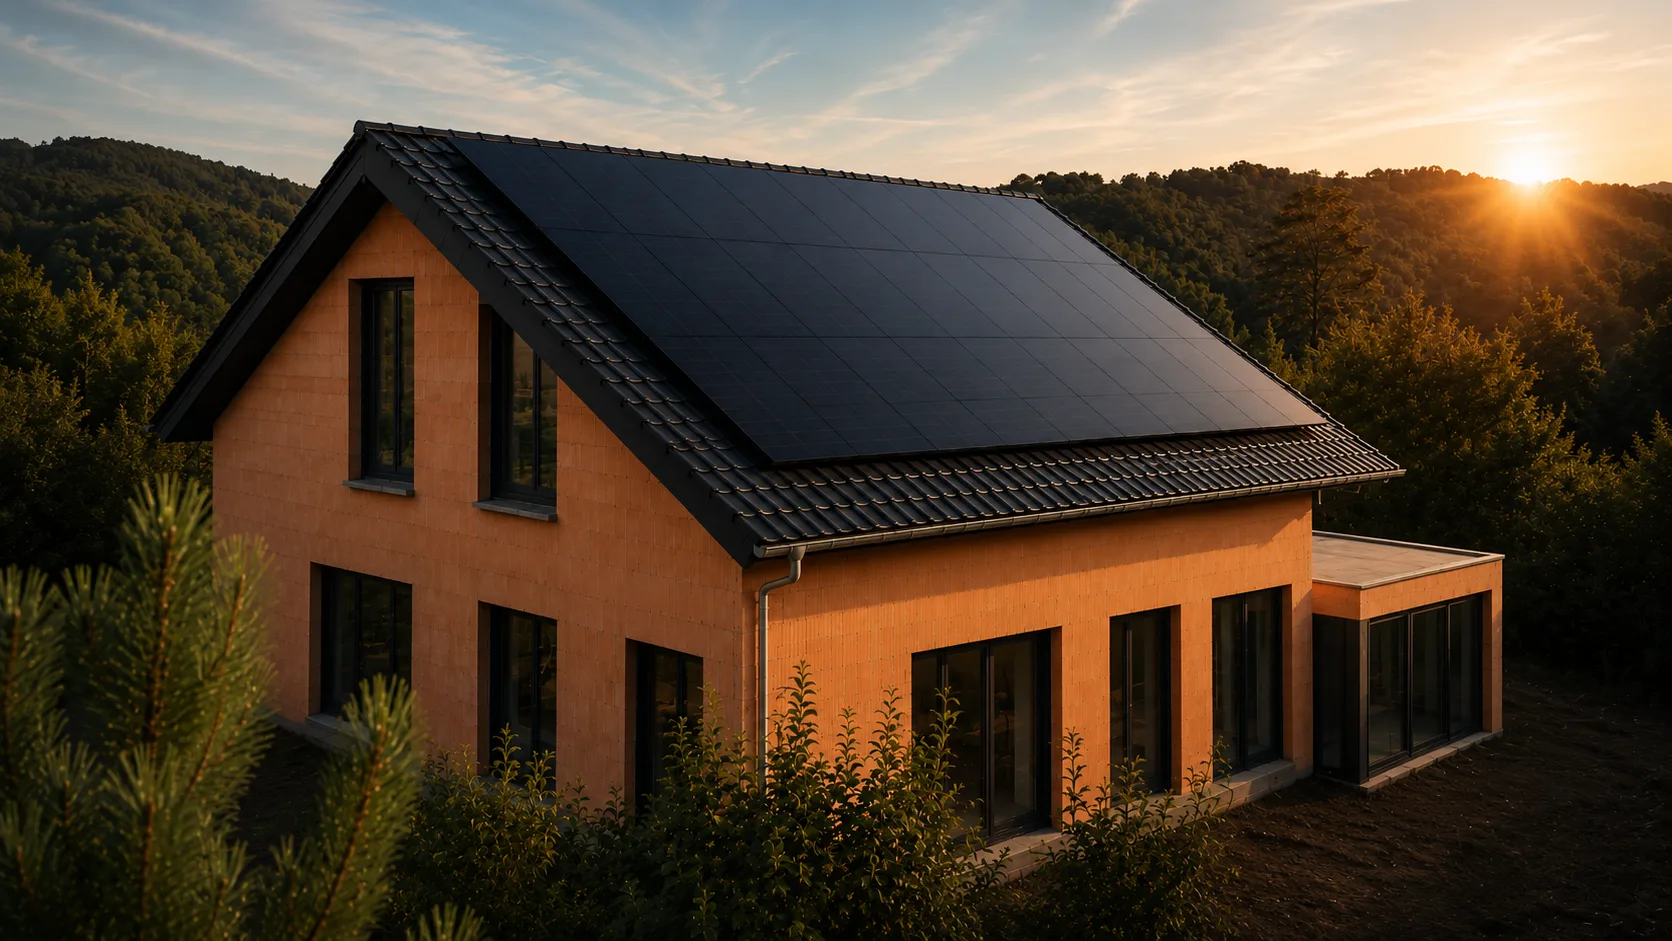
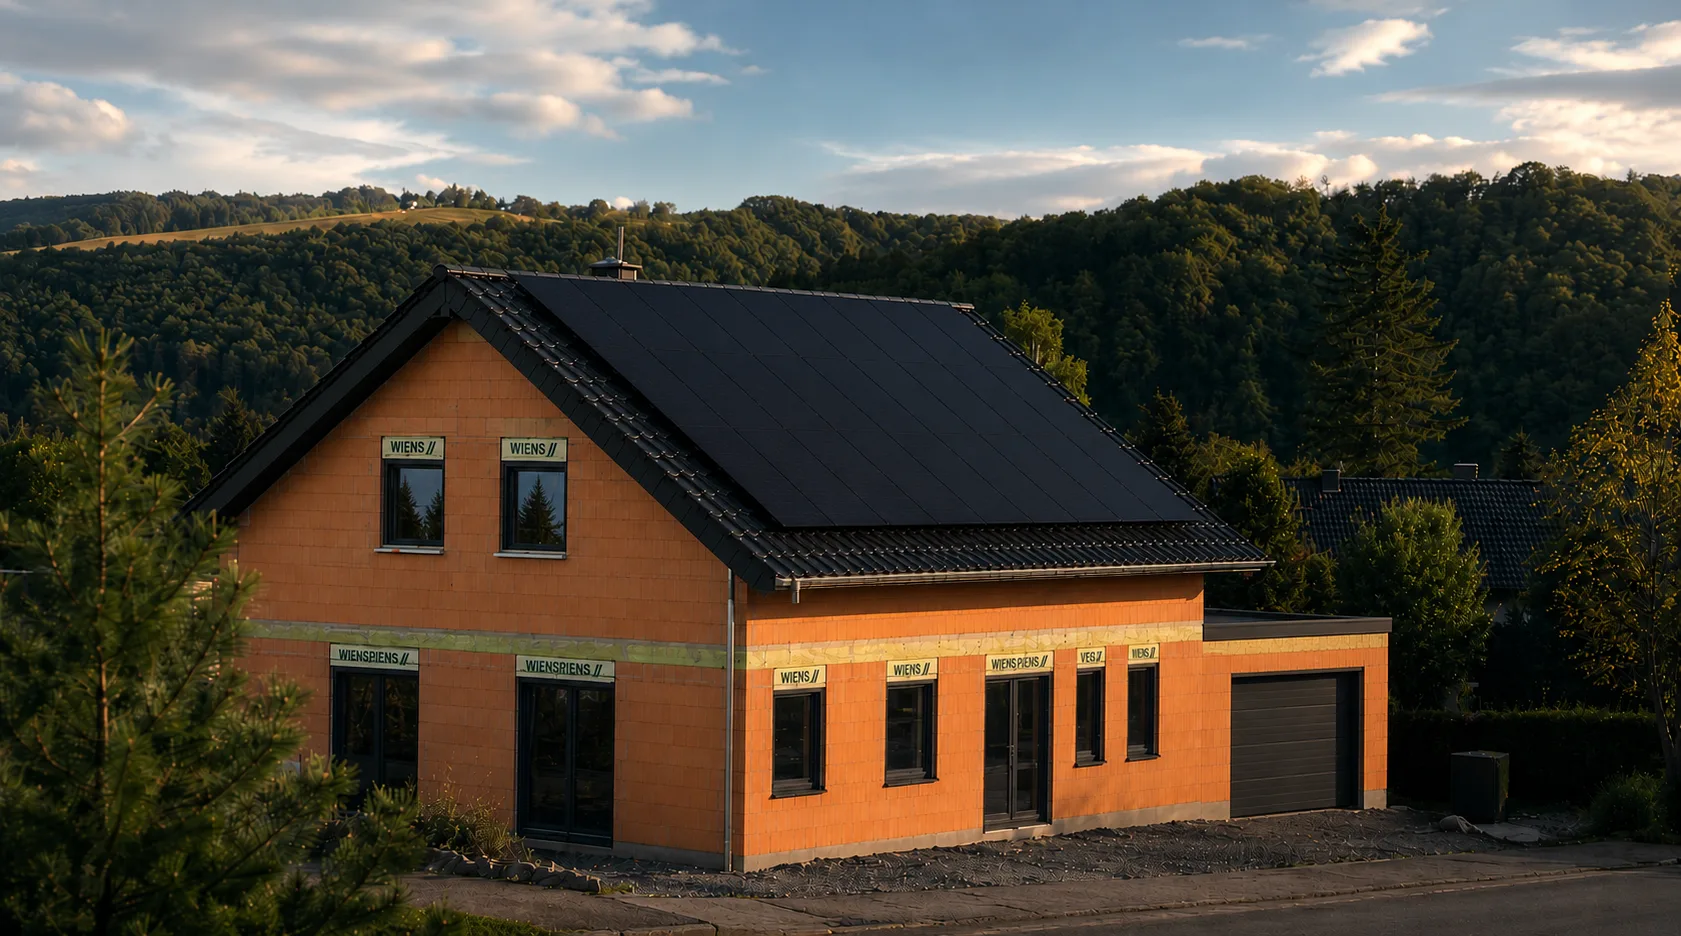
Hero-Diashow: nur noch zwei neue Hausaufnahmen per Crossfade
Ersetzt die dreiteilige Bau-Front-Animation (Rohbau/fertig/Nacht) durch
einen einfachen Opacity-Crossfade zwischen den beiden neuen Bildern
(original_bild, haus_1), da beide bereits das fertige Haus zeigen.

diff --git a/components/home-hero.tsx b/components/home-hero.tsx
@@ -1,27 +1,17 @@
 "use client";
 
 import Link from "next/link";
-import { useEffect } from "react";
-import {
-  animate,
-  motion,
-  useMotionTemplate,
-  useMotionValue,
-  useReducedMotion,
-  useTransform,
-} from "framer-motion";
+import { useEffect, useState } from "react";
+import { AnimatePresence, motion, useReducedMotion } from "framer-motion";
 import { ArrowUpRight, Phone } from "lucide-react";
 import { BlurText } from "@/components/blur-text";
 import { asset } from "@/lib/base-path";
 
-// Hero-Diashow: identisch gerahmte Vorher/Nachher/Nacht-Aufnahme desselben Hauses.
-// hausBau = Rohbau mit Gerüst, hausFertig = fertig montierte PV-Anlage, hausNacht = selbes Haus bei Nacht mit Licht an.
-const hausBau = asset("/images/hero-haus-1.webp");
-const hausFertig = asset("/images/hero-haus-2.webp");
-const hausNacht = asset("/images/hero-haus-3.webp");
-
-// Weiche Übergangskante (Federbreite in %) der Baufortschritts-Front.
-const FEATHER = 14;
+// Hero-Diashow: zwei Aufnahmen des fertigen Hauses mit PV-Anlage, die im Wechsel überblendet werden.
+const slides = [
+  { src: asset("/images/hero-haus-1.webp"), alt: "Einfamilienhaus mit montierter Photovoltaikanlage" },
+  { src: asset("/images/hero-haus-2.webp"), alt: "Einfamilienhaus mit Photovoltaikanlage in der Abendsonne" },
+];
 
 const partners = ["KNX", "Gira", "Hager", "SMA", "Busch-Jaeger"];
 
@@ -34,103 +24,38 @@ const fade = (delay: number, reduce: boolean | null) => ({
 export function HomeHero() {
   const reduce = useReducedMotion();
 
-  // Bau-Front in % (–FEATHER = verdeckt, 100 = fertig). Läuft diagonal von links unten
-  // zur Abendsonne oben rechts und baut haus_1 → haus_2 auf.
-  const front = useMotionValue(reduce ? 100 : -FEATHER);
-  const frontEnd = useTransform(front, (v) => v + FEATHER);
-  // Reset-Front in % (–FEATHER = Tag/Nacht voll sichtbar, 100 = vollständig weg).
-  // Läuft diagonal von der Sonne oben rechts nach unten links und enthüllt wieder haus_1.
-  const reset = useMotionValue(-FEATHER);
-  const resetEnd = useTransform(reset, (v) => v + FEATHER);
-  // Übergang Tag → Nacht: haus_3 (dunklerer Himmel + Licht an) blendet sanft über das fertige Tagbild.
-  const nachtOpacity = useMotionValue(0);
-  // Aufbau-Maske auf dem fertigen Bild: alles "hinter" der Bau-Front (#000) ist sichtbar.
-  const fertigMask = useMotionTemplate`linear-gradient(to top right, #000 0%, #000 ${front}%, rgba(0,0,0,0) ${frontEnd}%, rgba(0,0,0,0) 100%)`;
-  // Reset-Maske über Tag+Nacht: wischt von oben rechts nach unten links weg und legt haus_1 frei.
-  const resetMask = useMotionTemplate`linear-gradient(to bottom left, rgba(0,0,0,0) 0%, rgba(0,0,0,0) ${reset}%, #000 ${resetEnd}%, #000 100%)`;
+  // Index des aktuell sichtbaren Slides; wechselt im Loop zwischen den beiden Bildern.
+  const [slideIndex, setSlideIndex] = useState(0);
 
   useEffect(() => {
     if (reduce) return;
-    let cancelled = false;
-    const sleep = (ms: number) => new Promise((r) => setTimeout(r, ms));
-
-    async function loop() {
-      while (!cancelled) {
-        // 0. haus_1 (Rohbau mit Gerüst) kurz für sich stehen lassen.
-        await sleep(1400);
-        if (cancelled) return;
-        // 1. Bau: Front wandert langsam & diagonal über das Dach – Gerüst verschwindet, Module wachsen.
-        //    Bewusst gemächlich, damit der Aufbau ruhig & smooth statt hastig wirkt.
-        await animate(front, 100, { duration: 8, ease: [0.45, 0, 0.15, 1] }).finished;
-        if (cancelled) return;
-        // 2. Fertiges Tagbild (haus_2) ein paar Sekunden halten.
-        await sleep(3000);
-        if (cancelled) return;
-        // 3. Tag → Nacht: Himmel dunkelt sanft ab und die Lichter gehen an (haus_3 blendet weich auf).
-        await animate(nachtOpacity, 1, { duration: 4, ease: "easeInOut" }).finished;
-        if (cancelled) return;
-        // 4. Nächtlichen Zustand mit Licht ein paar Sekunden halten.
-        await sleep(3200);
-        if (cancelled) return;
-        // 5. Reset diagonal: von der Sonne oben rechts nach unten links wischt Tag+Nacht weg und haus_1 erscheint wieder.
-        await animate(reset, 100, { duration: 6, ease: [0.45, 0, 0.15, 1] }).finished;
-        if (cancelled) return;
-        // 6. Unsichtbar zurücksetzen (haus_1 liegt jetzt frei) und Loop sanft erneut starten.
-        front.set(-FEATHER);
-        nachtOpacity.set(0);
-        reset.set(-FEATHER);
-        await sleep(500);
-      }
-    }
-    loop();
-    return () => {
-      cancelled = true;
-    };
-  }, [reduce, front, reset, nachtOpacity]);
+    const id = setInterval(() => {
+      setSlideIndex((i) => (i + 1) % slides.length);
+    }, 6000);
+    return () => clearInterval(id);
+  }, [reduce]);
 
   return (
     <section data-area="home-hero" className="relative flex min-h-dvh flex-col overflow-hidden">
-      {/* Slideshow Hintergrund: Baufortschritts-Übergang */}
+      {/* Slideshow Hintergrund: Crossfade zwischen den beiden Haus-Aufnahmen */}
       <div data-area="home-hero-slideshow" className="absolute inset-0 z-0">
         <motion.div
           className="absolute inset-0"
           animate={reduce ? undefined : { scale: [1, 1.06] }}
           transition={{ duration: 16, ease: "easeInOut", repeat: Infinity, repeatType: "mirror" }}
         >
-          {/* Basis: Rohbau mit Gerüst */}
-          {/* eslint-disable-next-line @next/next/no-img-element */}
-          <img
-            src={hausBau}
-            alt="Einfamilienhaus im Bau mit Gerüst in der Abendsonne"
-            className="absolute inset-0 h-full w-full object-cover"
-          />
-          {/* Wrapper über Tag+Nacht: wird beim Reset diagonal von oben rechts nach unten links weggewischt und legt haus_1 frei */}
-          <motion.div
-            className="absolute inset-0"
-            style={{ maskImage: resetMask, WebkitMaskImage: resetMask }}
-          >
-            {/* Overlay: fertiges Haus mit PV-Anlage, durch die Bau-Maske enthüllt */}
-            <motion.div
-              className="absolute inset-0"
-              style={{ maskImage: fertigMask, WebkitMaskImage: fertigMask }}
-            >
-              {/* eslint-disable-next-line @next/next/no-img-element */}
-              <img
-                src={hausFertig}
-                alt="Fertiges Einfamilienhaus mit montierter Photovoltaikanlage in der Abendsonne"
-                className="absolute inset-0 h-full w-full object-cover"
-              />
-            </motion.div>
-            {/* Overlay: dasselbe Haus bei Nacht mit Licht an – blendet sanft über das fertige Tagbild */}
-            <motion.div className="absolute inset-0" style={{ opacity: nachtOpacity }}>
-              {/* eslint-disable-next-line @next/next/no-img-element */}
-              <img
-                src={hausNacht}
-                alt="Fertiges Einfamilienhaus mit Photovoltaikanlage bei Nacht mit eingeschalteter Beleuchtung"
-                className="absolute inset-0 h-full w-full object-cover"
-              />
-            </motion.div>
-          </motion.div>
+          <AnimatePresence initial={false}>
+            <motion.img
+              key={slides[slideIndex].src}
+              src={slides[slideIndex].src}
+              alt={slides[slideIndex].alt}
+              className="absolute inset-0 h-full w-full object-cover"
+              initial={reduce ? false : { opacity: 0 }}
+              animate={{ opacity: 1 }}
+              exit={{ opacity: 0 }}
+              transition={{ duration: 1.5, ease: "easeInOut" }}
+            />
+          </AnimatePresence>
         </motion.div>
         {/* Scrim für Lesbarkeit des weißen Textes */}
         <div className="absolute inset-0 bg-gradient-to-b from-black/70 via-black/45 to-black" />

diff --git a/DESIGN.md b/DESIGN.md
@@ -110,34 +110,15 @@ position: relative; overflow: hidden;
 
 ## 7. Hero-Slideshow (Startseite)
 
-Kernstück des Looks. Drei identisch gerahmte Aufnahmen desselben Hauses (lokal, `public/images/`):
+Kernstück des Looks. Zwei Aufnahmen des fertigen Hauses mit PV-Anlage (lokal, `public/images/`),
+die per Crossfade im Wechsel gezeigt werden:
 
-- `hero-haus-1.webp` – Rohbau mit Gerüst (Abendsonne)
-- `hero-haus-2.webp` – fertige PV-Anlage, Tag
-- `hero-haus-3.webp` – dasselbe Haus bei Nacht mit Licht
+- `hero-haus-1.webp` – fertiges Haus mit PV-Anlage (Tag)
+- `hero-haus-2.webp` – fertiges Haus mit PV-Anlage (Abendsonne)
 
-**Aufbau (Schichten, unten → oben):**
-1. Basis-`<img>` haus_1.
-2. **Reset-Wrapper** mit `resetMask` – enthält:
-   - Ebene mit `fertigMask` → haus_2,
-   - Ebene mit `nachtOpacity` → haus_3.
-
-**Zwei diagonale Masken** (`FEATHER = 14` weiche Kante):
-- `fertigMask`: `linear-gradient(to top right …)` – baut haus_1 → haus_2 auf (Front läuft von unten-links
-  zur Abendsonne oben-rechts; Gerüst verschwindet, Module wachsen).
-- `resetMask`: `linear-gradient(to bottom left …)` – wischt Tag+Nacht von oben-rechts nach unten-links
-  weg und legt haus_1 wieder frei.
-
-**Loop-Timeline** (in `home-hero.tsx`):
-| # | Aktion | Dauer |
-|---|---|---|
-| 0 | haus_1 halten | 1,4 s |
-| 1 | Bau haus_1 → haus_2 (diagonal, bewusst gemächlich) | 8 s |
-| 2 | fertiges Tagbild halten | 3 s |
-| 3 | Tag → Nacht (haus_3 blendet weich auf) | 4 s |
-| 4 | Nachtbild halten | 3,2 s |
-| 5 | Diagonaler Reset (Tag+Nacht weg, haus_1 erscheint) | 6 s |
-| 6 | unsichtbar zurücksetzen, Loop neu | 0,5 s |
+**Aufbau:** `AnimatePresence` mit einem einzelnen `motion.img`, dessen `key` sich alle 6 s auf den
+nächsten Slide-Index ändert (`slides` Array in `home-hero.tsx`) → weiches Opacity-Crossfade
+(`duration: 1.5s`, `easeInOut`) zwischen den beiden Bildern, danach Loop von vorn.
 
 **Weitere Hero-Details:**
 - **Ken-Burns:** langsamer Zoom `scale [1 → 1.06]`, 16 s, `mirror`-Loop.
@@ -145,7 +126,7 @@ Kernstück des Looks. Drei identisch gerahmte Aufnahmen desselben Hauses (lokal,
   Motiv bleibt scharf. (Kein Lade-/Erscheinen-Effekt – bewusst entfernt, siehe §11.)
 - **Scrim für Lesbarkeit:** `bg-gradient-to-b from-black/70 via-black/45 to-black` +
   radiale Vignette `radial-gradient(80% 60% at 50% 40%, transparent, rgba(0,0,0,0.65))`.
-- **reduced-motion:** Front direkt auf `100` (statisches fertiges Tagbild), keine Loop-Animation.
+- **reduced-motion:** kein Interval-Wechsel, erster Slide bleibt statisch stehen.
 - **Inhalt:** zweizeilige BlurText-Headline („Brandschutz & Elektrotechnik" größer, „Meisterbetrieb Paul
   Grunau" ~70 %), CTAs „Mehr erfahren" (`liquid-glass-strong` + ArrowUpRight) und Telefonnummer,
   Hersteller-Pille + Namen (KNX · Gira · Hager · SMA · Busch-Jaeger) in Serif-Italic.
